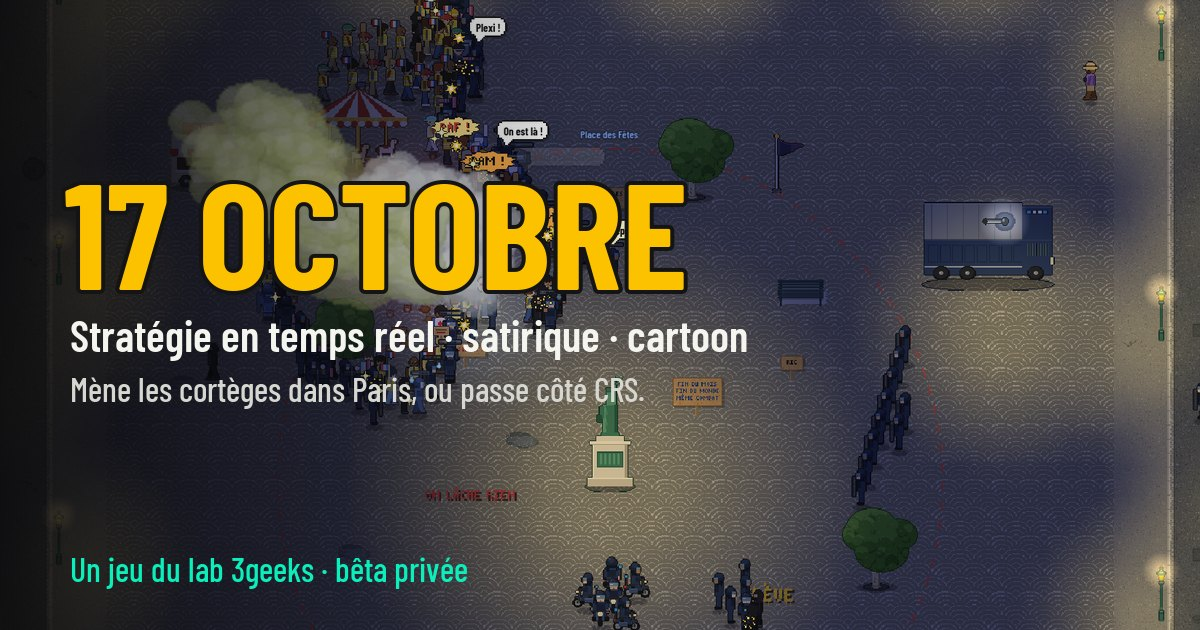
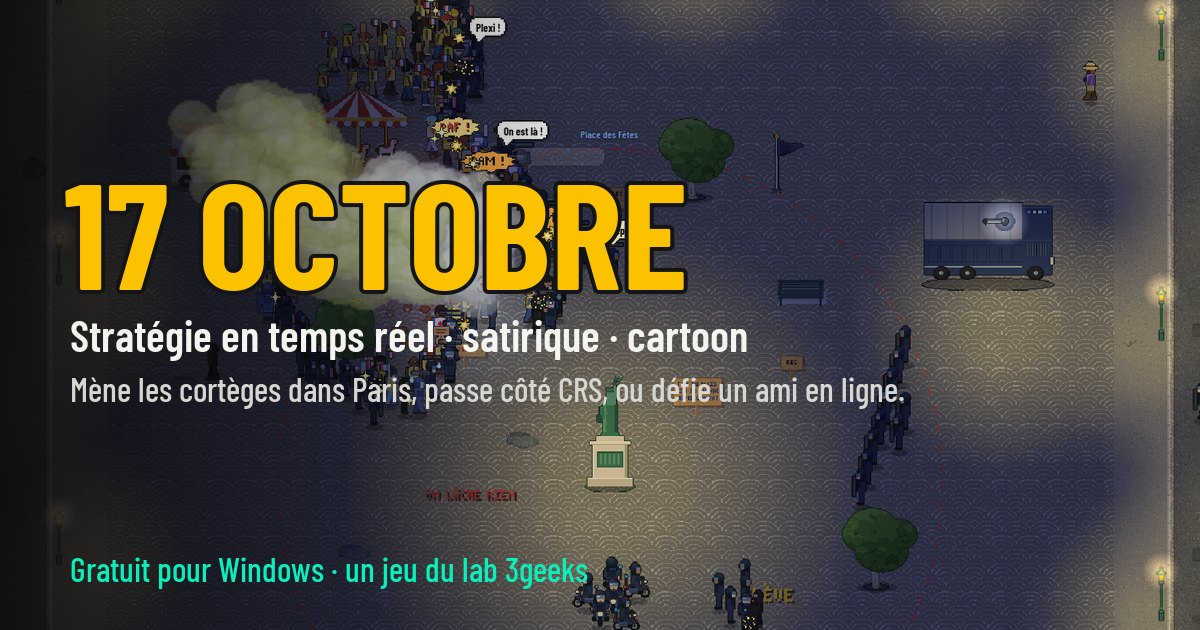
17 OCTOBRE: the beta download is free (no access code).
The page shows a plain download button; the file server serves the zip to
anyone when DOWNLOAD_CODE is empty. Texts, share image and assistant updated.

Changed region(s): [[0.0617, 0.8746, 0.4933, 0.9349], [0.3392, 0.6032, 0.7708, 0.6635]]

diff --git a/src/game/GameSections.tsx b/src/game/GameSections.tsx
@@ -1,10 +1,10 @@
 /**
  * The /17-octobre page: our video game, from the 3geeks lab. Trailer, what the game is, screenshots, how it was made,
- * and the private beta download (behind an access code, served by the game's file server on the Mac Mini:
+ * and the beta download (free since 14/10, served by the game's file server on the Mac Mini:
  * services/17-octobre, routed by Traefik on /17-octobre/fichiers).
  */
-import { ArrowRight, Dices, Download, Flag, Lock, Moon, Play, Shield, Smile, Swords, X } from 'lucide-react';
-import React, { useCallback, useEffect, useState } from 'react';
+import { ArrowRight, Dices, Download, Flag, Moon, Play, Shield, Smile, Swords, X } from 'lucide-react';
+import React, { useEffect, useState } from 'react';
 
 import Reveal from '../components/Reveal';
 import type { Lang } from '../i18n';
@@ -41,15 +41,12 @@ export const GameSections: React.FC<{ lang: Lang; book: (source: string) => void
   const c = GAME_COPY[lang];
   const [shot, setShot] = useState<number | null>(null);
   const [info, setInfo] = useState<VersionInfo | null>(null);
-  const [code, setCode] = useState('');
-  const [state, setState] = useState<'idle' | 'checking' | 'bad'>('idle');
 
   useEffect(() => {
     fetch(`${FILES}/version.json`, { cache: 'no-store' })
       .then((r) => (r.ok ? r.json() : null))
       .then((v) => v && setInfo(v))
       .catch(() => {});
-    if (new URLSearchParams(window.location.search).get('code') === 'faux') setState('bad');
   }, []);
 
   useEffect(() => {
@@ -62,28 +59,6 @@ export const GameSections: React.FC<{ lang: Lang; book: (source: string) => void
     window.addEventListener('keydown', onKey);
     return () => window.removeEventListener('keydown', onKey);
   }, [shot, c.gallery.length]);
-
-  const submit = useCallback(
-    async (e: React.FormEvent) => {
-      e.preventDefault();
-      const value = code.trim();
-      if (!value) return;
-      setState('checking');
-      try {
-        const r = await fetch(`${FILES}/verifier?code=${encodeURIComponent(value)}`, { cache: 'no-store' });
-        const ok = r.ok && (await r.json()).ok === true;
-        if (!ok) {
-          setState('bad');
-          return;
-        }
-        setState('idle');
-        window.location.href = `${FILES}/telecharger?code=${encodeURIComponent(value)}`;
-      } catch {
-        setState('bad');
-      }
-    },
-    [code],
-  );
 
   return (
     <>
@@ -267,37 +242,10 @@ export const GameSections: React.FC<{ lang: Lang; book: (source: string) => void
                 {info?.size ? ` · ${Math.round(info.size / 1048576)} ${c.size}` : ''}
               </p>
               {info ? (
-                <form onSubmit={submit} className="mt-6">
-                  <label htmlFor="code" className="text-xs font-semibold uppercase tracking-wider text-slate-400">
-                    {c.codeLabel}
-                  </label>
-                  <div className="mt-2 flex flex-col gap-3 sm:flex-row">
-                    <div className="relative flex-1">
-                      <Lock className="pointer-events-none absolute left-3.5 top-1/2 h-4 w-4 -translate-y-1/2 text-slate-500" />
-                      <input
-                        id="code"
-                        value={code}
-                        onChange={(e) => {
-                          setCode(e.target.value);
-                          if (state === 'bad') setState('idle');
-                        }}
-                        placeholder={c.codePlaceholder}
-                        autoComplete="off"
-                        autoCapitalize="characters"
-                        spellCheck={false}
-                        className="w-full rounded-xl border border-white/10 bg-ink py-3 pl-10 pr-4 text-sm uppercase tracking-wider text-white placeholder:normal-case placeholder:tracking-normal placeholder:text-slate-600 focus:border-brand-mint/60 focus:outline-none"
-                      />
-                    </div>
-                    <button type="submit" className="btn btn-primary justify-center" disabled={state === 'checking'}>
-                      <Download className="h-4 w-4" /> {state === 'checking' ? c.checking : c.download}
-                    </button>
-                  </div>
-                  {state === 'bad' && (
-                    <p className="mt-3 text-sm text-rose-300" role="alert">
-                      {c.badCode}
-                    </p>
-                  )}
-                </form>
+                <a href={`${FILES}/telecharger`} className="btn btn-primary mt-6 justify-center" download>
+                  <Download className="h-4 w-4" /> {c.download}
+                  {info.size ? <span className="opacity-70">· {Math.round(info.size / 1048576)} {c.size}</span> : null}
+                </a>
               ) : (
                 <p className="mt-6 text-sm text-slate-400">{c.notYet}</p>
               )}

diff --git a/17-octobre/index.html b/17-octobre/index.html
@@ -7,7 +7,7 @@
     <meta name="theme-color" content="#08090d" />
     <meta name="color-scheme" content="dark" />
     <title>17 OCTOBRE — le jeu vidéo du lab 3geeks</title>
-    <meta name="description" content="17 OCTOBRE, le jeu vidéo du lab 3geeks : stratégie en temps réel satirique et cartoon. Mène les cortèges de Gilets Jaunes dans Paris, ou passe côté CRS. Bande-annonce, captures et bêta privée pour Windows." />
+    <meta name="description" content="17 OCTOBRE, le jeu vidéo du lab 3geeks : stratégie en temps réel satirique et cartoon. Mène les cortèges de Gilets Jaunes dans Paris, ou passe côté CRS. Bande-annonce, captures, et la bêta à télécharger gratuitement pour Windows." />
     <meta name="keywords" content="17 OCTOBRE, jeu vidéo, stratégie en temps réel, RTS, Gilets Jaunes, CRS, pixel art, Godot, 3geeks, jeu indépendant, Made in France" />
     <meta name="author" content="3geeks" />
     <meta name="robots" content="index, follow" />
@@ -19,7 +19,7 @@
     <meta property="og:locale" content="fr_FR" />
     <meta property="og:locale:alternate" content="en_US" />
     <meta property="og:title" content="17 OCTOBRE — le jeu vidéo du lab 3geeks" />
-    <meta property="og:description" content="17 OCTOBRE, le jeu vidéo du lab 3geeks : stratégie en temps réel satirique et cartoon. Mène les cortèges de Gilets Jaunes dans Paris, ou passe côté CRS. Bande-annonce, captures et bêta privée pour Windows." />
+    <meta property="og:description" content="17 OCTOBRE, le jeu vidéo du lab 3geeks : stratégie en temps réel satirique et cartoon. Mène les cortèges de Gilets Jaunes dans Paris, ou passe côté CRS. Bande-annonce, captures, et la bêta à télécharger gratuitement pour Windows." />
     <meta property="og:url" content="https://3geeks.fr/17-octobre" />
     <meta property="og:image" content="https://3geeks.fr/images/17-octobre/og.jpg" />
     <meta property="og:image:width" content="1200" />
@@ -29,7 +29,7 @@
     <!-- Twitter -->
     <meta name="twitter:card" content="summary_large_image" />
     <meta name="twitter:title" content="17 OCTOBRE — le jeu vidéo du lab 3geeks" />
-    <meta name="twitter:description" content="17 OCTOBRE, le jeu vidéo du lab 3geeks : stratégie en temps réel satirique et cartoon. Mène les cortèges de Gilets Jaunes dans Paris, ou passe côté CRS. Bande-annonce, captures et bêta privée pour Windows." />
+    <meta name="twitter:description" content="17 OCTOBRE, le jeu vidéo du lab 3geeks : stratégie en temps réel satirique et cartoon. Mène les cortèges de Gilets Jaunes dans Paris, ou passe côté CRS. Bande-annonce, captures, et la bêta à télécharger gratuitement pour Windows." />
     <meta name="twitter:image" content="https://3geeks.fr/images/17-octobre/og.jpg" />
 
 

diff --git a/src/game/copy.ts b/src/game/copy.ts
@@ -47,17 +47,13 @@ export const GAME_COPY = {
     tributeTitle: 'Pourquoi « 17 OCTOBRE »',
     tribute: 'Le titre fait écho à l’appel à manifester du 17 octobre 2026, et au 17 octobre 1961 : le jeu s’ouvre sur un court hommage aux manifestants algériens réprimés ce jour-là à Paris. C’est le seul écran sans humour.',
     dlPath: 'Télécharger',
-    dlTitle: 'La bêta, entre amis.',
-    dlSub: 'La bêta est privée : le code d’accès se donne entre amis. Pas de code ? Écris-nous à contact@3geeks.fr.',
+    dlTitle: 'La bêta, gratuite.',
+    dlSub: 'Gratuit, pour Windows, sans compte ni installation : on dézippe, on joue. Et on nous dit ce qu’on en pense : contact@3geeks.fr.',
     version: 'Version',
     published: 'publiée le',
     size: 'Mo',
     system: 'Windows 10 ou 11, 64 bits',
-    codeLabel: 'Code d’accès',
-    codePlaceholder: 'Ton code',
-    download: 'Télécharger',
-    checking: 'Vérification…',
-    badCode: 'Ce code ne marche pas. Vérifie-le, ou écris-nous.',
+    download: 'Télécharger pour Windows',
     notYet: 'La prochaine version arrive : reviens bientôt.',
     notes: 'Quoi de neuf',
     howTitle: 'Pour lancer le jeu',
@@ -116,17 +112,13 @@ export const GAME_COPY = {
     tributeTitle: 'Why "17 OCTOBRE"',
     tribute: 'The title echoes the call to protest on 17 October 2026, and 17 October 1961: the game opens on a short tribute to the Algerian protesters repressed in Paris that day. It is the only screen without humour.',
     dlPath: 'Download',
-    dlTitle: 'The beta, among friends.',
-    dlSub: 'The beta is private: the access code is shared among friends. No code? Write to us at contact@3geeks.fr.',
+    dlTitle: 'The beta, free.',
+    dlSub: 'Free, for Windows, no account and no install: unzip and play. And tell us what you think: contact@3geeks.fr.',
     version: 'Version',
     published: 'released on',
     size: 'MB',
     system: 'Windows 10 or 11, 64-bit',
-    codeLabel: 'Access code',
-    codePlaceholder: 'Your code',
-    download: 'Download',
-    checking: 'Checking…',
-    badCode: 'This code does not work. Check it, or write to us.',
+    download: 'Download for Windows',
     notYet: 'The next version is on its way: come back soon.',
     notes: 'What’s new',
     howTitle: 'To start the game',

diff --git a/src/i18n.ts b/src/i18n.ts
@@ -151,7 +151,7 @@ export const translations = {
         },
         game: {
           title: "17 OCTOBRE — the 3geeks lab video game",
-          description: "17 OCTOBRE, the 3geeks lab video game: a satirical, cartoon real-time strategy game. Lead the Yellow Vest marches through Paris, or switch to the riot police. Trailer, screenshots and private beta for Windows.",
+          description: "17 OCTOBRE, the 3geeks lab video game: a satirical, cartoon real-time strategy game. Lead the Yellow Vest marches through Paris, or switch to the riot police. Trailer, screenshots, and the free beta for Windows.",
           path: "Video game",
           h1: "17 OCTOBRE",
           sub: "A satirical, cartoon real-time strategy game.",
@@ -566,7 +566,7 @@ export const translations = {
         },
         game: {
           title: "17 OCTOBRE — le jeu vidéo du lab 3geeks",
-          description: "17 OCTOBRE, le jeu vidéo du lab 3geeks : stratégie en temps réel satirique et cartoon. Mène les cortèges de Gilets Jaunes dans Paris, ou passe côté CRS. Bande-annonce, captures et bêta privée pour Windows.",
+          description: "17 OCTOBRE, le jeu vidéo du lab 3geeks : stratégie en temps réel satirique et cartoon. Mène les cortèges de Gilets Jaunes dans Paris, ou passe côté CRS. Bande-annonce, captures, et la bêta à télécharger gratuitement pour Windows.",
           path: "Jeu vidéo",
           h1: "17 OCTOBRE",
           sub: "Un jeu de stratégie en temps réel, satirique et cartoon.",

diff --git a/README.md b/README.md
@@ -40,12 +40,12 @@ Page du jeu du lab (code du jeu : dépôt séparé, `Desktop/Manif`). Elle est a
 - Page : `src/game/GameSections.tsx`, textes FR/EN `src/game/copy.ts`, dans le cadre commun (`SiteLayout`, page `game`).
 - Médias : bande-annonce `public/videos/17-octobre-trailer.mp4` (31 s, 1080p, ~10 Mo), captures et affiche dans
   `public/images/17-octobre/` (WebP 1600 et 640 px), image de partage `og.jpg` (1200 × 630).
-- **Téléchargement** : la bêta est privée, derrière un code d'accès. Le .zip n'est PAS dans ce dépôt : il est servi par
-  l'app Coolify `17-octobre-fichiers` (`services/17-octobre/`, Node sans dépendance, volume persistant `/data`),
-  routée par Traefik sur `https://www.3geeks.fr/17-octobre/fichiers` (la requête n'atteint jamais le nginx du site).
-  Elle sert `version.json` (public : version, date, taille, notes, lu par la page et par le jeu), vérifie le code
-  (`/verifier`, limité par visiteur) et envoie le .zip (`/telecharger`, compté dans `stats.json`).
-- Variables Coolify de cette app : `DOWNLOAD_CODE` (le code donné aux amis ; plusieurs séparés par des virgules),
+- **Téléchargement** : libre depuis le 14/10 (un code d'accès ne revient que si `DOWNLOAD_CODE` est rempli). Le .zip
+  n'est PAS dans ce dépôt : il est servi par l'app Coolify `17-octobre-fichiers` (`services/17-octobre/`, Node sans
+  dépendance, volume persistant `/data`), routée par Traefik sur `https://www.3geeks.fr/17-octobre/fichiers` (la
+  requête n'atteint jamais le nginx du site). Elle sert `version.json` (public : version, date, taille, notes, lu par
+  la page et par le jeu) et le .zip (`/telecharger`, compté dans `stats.json`).
+- Variables Coolify de cette app : `DOWNLOAD_CODE` (vide : téléchargement libre ; sinon le code, plusieurs séparés par des virgules),
   `UPLOAD_TOKEN` (envoi des versions). Une nouvelle version s'envoie depuis le dépôt du jeu : `tools/publish.ps1`.
 - Elle héberge aussi le **relais du duel en ligne** (`relay.mjs`, WebSocket sans dépendance) sur
   `wss://www.3geeks.fr/17-octobre/fichiers/relais` : un code de 4 lettres réunit deux joueurs de la même version, le
